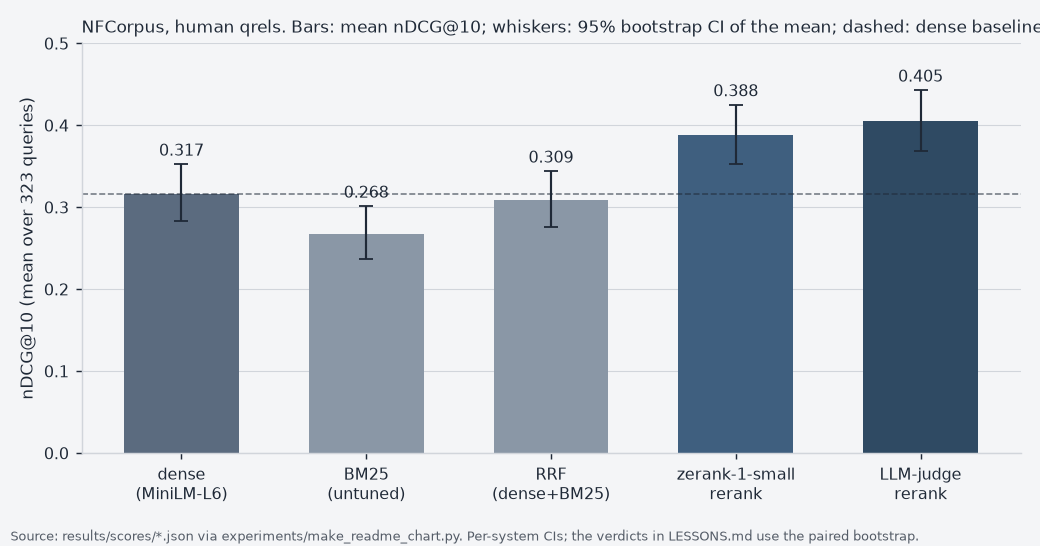
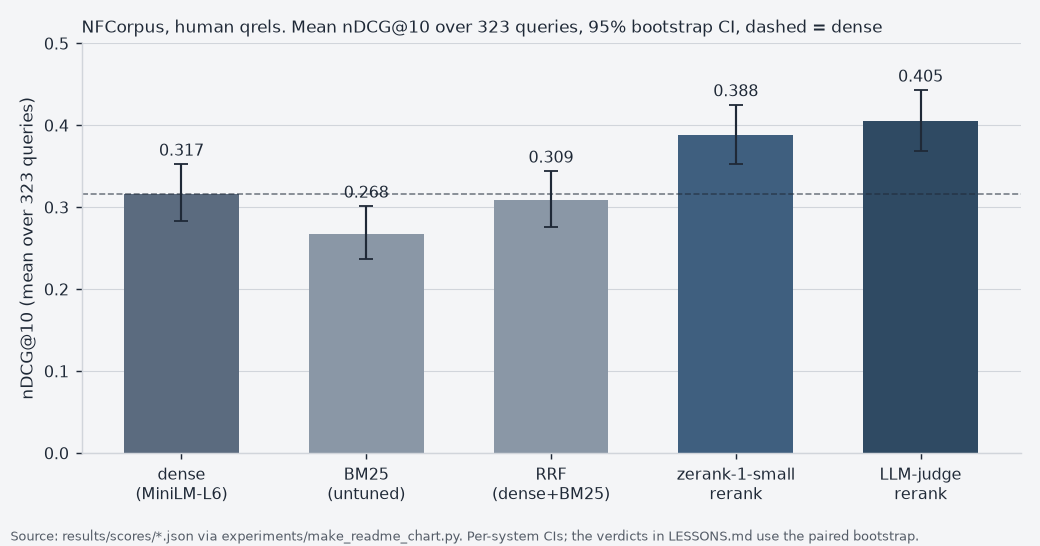
chart: shorten title so it fits

Changed region(s): [[0.2769, 0.0311, 1.0, 0.0623]]

diff --git a/experiments/make_readme_chart.py b/experiments/make_readme_chart.py
@@ -87,7 +87,7 @@ def main() -> None:
         ax.spines[s].set_color(grid)
     ax.yaxis.grid(True, color=grid, lw=0.6)
     ax.set_axisbelow(True)
-    ax.set_title("NFCorpus, human qrels. Bars: mean nDCG@10; whiskers: 95% bootstrap CI of the mean; dashed: dense baseline",
+    ax.set_title("NFCorpus, human qrels. Mean nDCG@10 over 323 queries, 95% bootstrap CI, dashed = dense",
                  fontsize=9.5, color=fg, loc="left")
     fig.text(0.01, 0.01,
              "Source: results/scores/*.json via experiments/make_readme_chart.py. "
